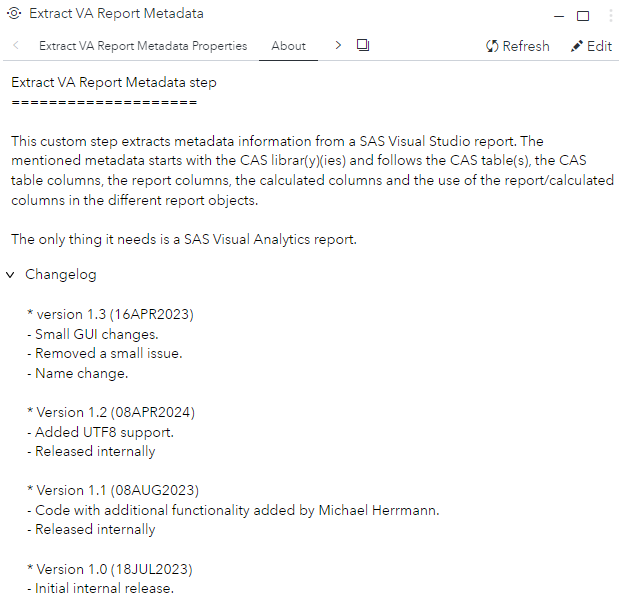
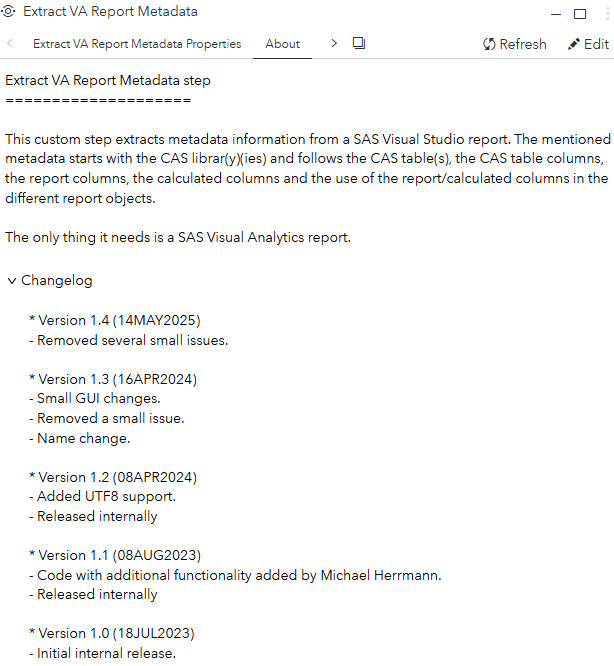
Removed several small issues

diff --git a/Extract VA Report Metadata/README.md b/Extract VA Report Metadata/README.md
@@ -47,11 +47,14 @@ Note that the flow shown can be used by the [Loop Deployed Object](../Loop%20Dep
 
 ## Output port
 
-The custom step has one output table with the following information:
+The custom step has one output table with the following columns:
 ![output](img/Output%20port.PNG)
 
 ## Change Log
 
+* Version 1.4 (20MAY2025)
+    * Removed several small issues.
+    * Added the reportModifier to the output table.
 * Version 1.3 (16APR2024)
     * Small GUI changes.
     * Removed a small issue and did a name change.
